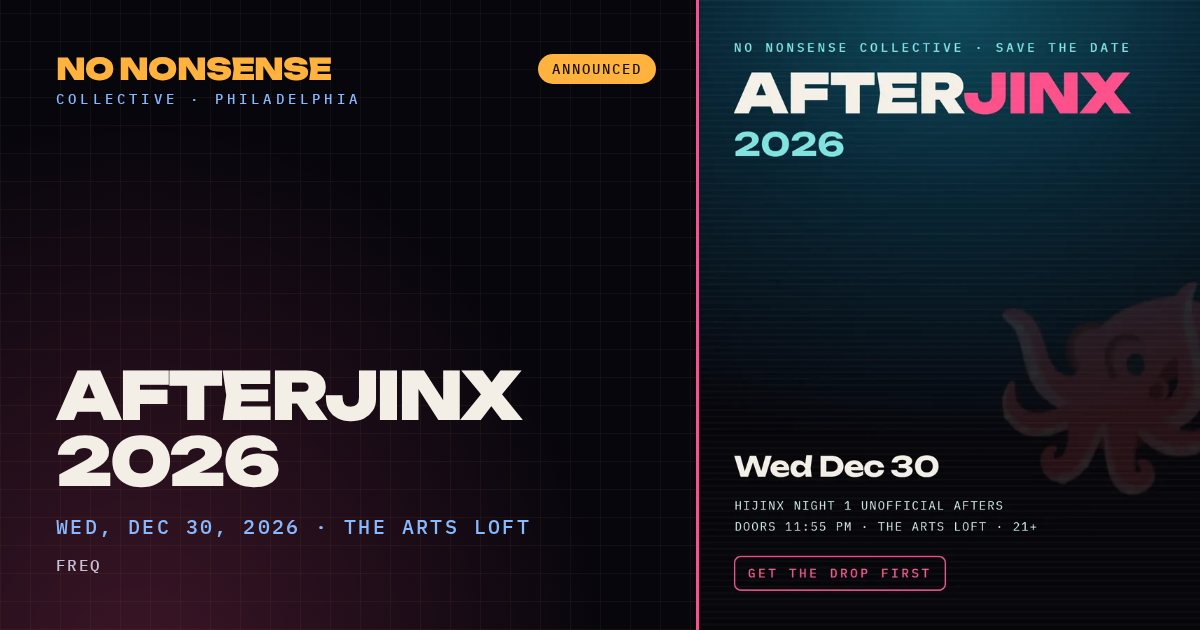
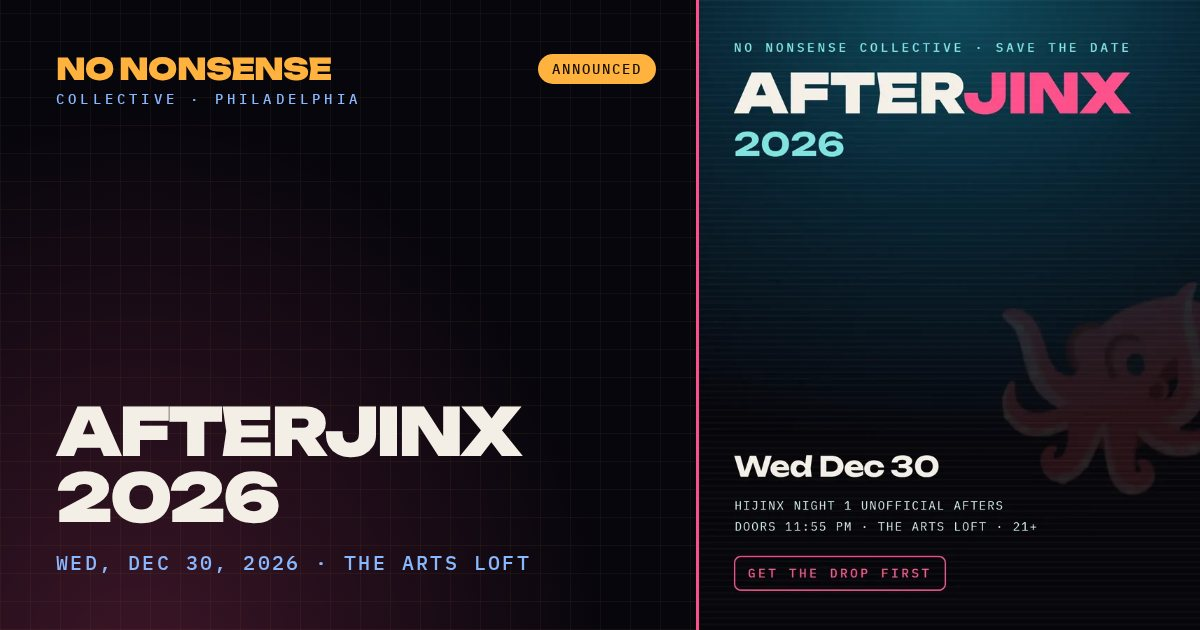
AfterJinx 2026: remove FREQ, lineup TBA
FREQ was offered, not confirmed. Drops FREQ and the 3:30 set time from the
event record, page, home data and share image; the lineup reads Lineup TBA.

diff --git a/index.html b/index.html
@@ -1384,8 +1384,8 @@ button:not(:disabled):active,.btn:active,a.btn:active,[role="button"]:active,.ca
                 <p class="badge badge-afterparty">Afterparty</p><span class="ev-state ev-state--announced">Announced</span>
                 <h3>AfterJinx 2026</h3>
                 <p class="event-meta"><time datetime="2026-12-30">Wed, Dec 30, 2026</time> · The Arts Loft</p>
-                <p>HiJinx Night 1 unofficial afters. Doors 11:55 PM, music until 6 AM. FREQ.</p>
-                <ul class="door-chips"><li>21+</li><li class="ev-has">Set times</li></ul>
+                <p>HiJinx Night 1 unofficial afters. Doors 11:55 PM, music until 6 AM.</p>
+                <ul class="door-chips"><li>21+</li></ul>
                 <p class="ev-note"><b>Announced, not on sale.</b> The drop list gets the venue and lineup, then the on-sale link, then the address at 6 PM on show day.</p><p class="ev-access">Access: ask us about stairs, seating or step-free entry before the show. <a href="#contact" data-go="contact">Contact us</a>.</p>
                 <div class="card-links"><button type="button" class="text-link ev-tix" data-open-news>Get the drop</button><a class="text-link" href="events/afterjinx-2026/afterjinx-2026.ics" download data-umami-event="add-to-calendar" data-umami-event-event="afterjinx-2026">Add to calendar</a><button type="button" class="text-link" data-event-open="afterjinx-2026">Lineup + details</button><a class="text-link" href="events/afterjinx-2026/">Event page</a></div>
               </div>
@@ -2096,7 +2096,7 @@ button:not(:disabled):active,.btn:active,a.btn:active,[role="button"]:active,.ca
     <p class="vs-note">Played from YouTube with captions switched on when the video has them. <a id="vs-link" href="#" target="_blank" rel="noopener noreferrer">Open on YouTube</a></p>
   </div>
 </dialog>
-<!-- nn:data --><script type="application/json" id="nn-data">{"events":[{"slug":"afterjinx-2026","title":"AfterJinx 2026","category":"afterparty","status":"announced","start":"2026-12-30T23:55:00-05:00","end":"2026-12-31T06:00:00-05:00","dateLabel":"Wed, Dec 30, 2026","summary":"HiJinx Night 1 unofficial afters. Doors 11:55 PM, music until 6 AM.","presenters":[],"venue":{"name":"The Arts Loft","area":"Callowhill","public":true},"flyer":"afterjinx-2026","door":{"age":"21+"},"nights":[{"label":"HiJinx Night 1 · Wed Dec 30","sets":[["3:30","FREQ"]]}],"lineup":["FREQ"],"audio":[],"videos":[]},{"slug":"legend-of-delta-2026","title":"The Legend of Delta: A Link to the Rave","category":"club","status":"on-sale","start":"2026-11-13T22:00:00-05:00","end":"2026-11-14T03:00:00-05:00","dateLabel":"Fri, Nov 13, 2026","summary":"ZeldaRave VS DeltaRave. DeltaRave returns, with a twist: worlds unite for the first ever Zelda x Deltarune rave. Collision of the dark worlds: a multi-genre video game EDM night. All cosplay welcome; Undertale, Deltarune and Zelda cosplay encouraged. Limited free RSVP, then from $10; $20 day of. See you soon, travelers.","presenters":[],"venue":{"name":"2437 S 24th St","area":"South Philly","public":true},"flyer":"legend-of-delta-2026","ticketUrl":"https://posh.vip/e/the-legend-of-delta-a-link-to-the-rave","door":{"age":"18+"},"lineup":[],"lineupNote":"Lineup TBA. Multi-genre video game EDM.","audio":[],"videos":[]},{"slug":"afterbreak-2026","title":"AfterBreak 2026","category":"afterparty","status":"announced","start":"2026-09-12T00:00:00-04:00","end":"2026-09-13T06:00:00-04:00","dateLabel":"Sep 11 + 12, 2026","summary":"Unofficial Breakaway Philly afterparties, midnight to sunrise.","presenters":[],"venue":{"name":null,"area":"Secret Philly location","public":false},"flyer":"afterbreak-2026","extraFlyers":[{"label":"Night 1 flyer","file":"afterbreak-2026-night-1"}],"door":{"age":"18+ with valid ID · 21+ to drink","reentry":"Yes, back through the security checkpoint","bring":"Two sealed waters or snacks are fine. No weapons, outside drinks, or N2O."},"notice":"Night 2 was cancelled for weather. Ticket holders were refunded.","nights":[{"label":"Night 1 · Fri Sep 11","area":"South Philly waterfront","sets":[["12:00","Double Vision"],["12:45","Venomixx"],["1:30","DJ Tweak"],["2:30","Le Voile"],["3:30","Face My Flow feat. Stehreo"],["4:30","DusteeHD"],["5:30","Acidic Dreams b2b Tethra64"]]},{"label":"Night 2 · Sat Sep 12","status":"cancelled","note":"Cancelled for weather · refunded"}],"lineup":["Face My Flow feat. Stehreo","Acidic Dreams b2b Tethra64","Double Vision","DJ Tweak","DusteeHD","Le Voile","Venomixx"],"production":"No Nonsense stage lighting and laser system, plus projection mapping with live VJ from Double Vision. PA: 2× EV ZLX-15BT, EV S181 sub, QSC GX7 amp.","audio":[],"videos":[]},{"slug":"endpoint-connections-2","title":"Endpoint Connections 2.0","category":"club","status":"announced","start":"2026-05-15T23:45:00-04:00","end":"2026-05-16T05:00:00-04:00","dateLabel":"Fri, May 15, 2026","summary":"Advanced after-hours with Unpopular Opinion. 11:45 PM to 5 AM.","presenters":["Unpopular Opinion"],"venue":{"name":"The Arts Loft","area":"Callowhill","public":true},"flyer":"endpoint-connections-2","door":{"age":"21+"},"lineup":["Dragon Drop","ILLIXIR","Quackz","Orem","Zektr"],"audio":[],"videos":[]},{"slug":"park-rave-005-2026","title":"Park Rave 005: Bicycle Day Banger Part Two","category":"outdoor","status":"announced","start":"2026-04-19T12:00:00-04:00","end":"2026-04-19T20:00:00-04:00","dateLabel":"Sun, Apr 19, 2026","summary":"A free two-stage, multi-genre park rave with Massive. Open decks and vendors. Noon until dark.","presenters":["Massive"],"venue":{"name":null,"area":"Philly park","public":false},"flyer":"park-rave-005-2026","door":{"age":"Free entry"},"lineup":[],"lineupNote":"Two stages and open decks. The lineup was announced after the flyer.","audio":[],"videos":[]},{"slug":"endpoint-connections-1","title":"Endpoint Connections 1.0","category":"club","status":"announced","start":"2026-04-18T23:30:00-04:00","end":"2026-04-19T05:00:00-04:00","dateLabel":"Apr 18, 2026","summary":"The first Endpoint, with Unpopular Opinion.","presenters":["Unpopular Opinion"],"venue":{"name":"The Arts Loft","area":"Callowhill","public":true},"flyer":"endpoint-connections-1","door":{"age":"21+"},"lineup":["Chehz","G-Nick","illGmusic","Orem","Spin Doctaz","Tunk"],"audio":[],"videos":[]},{"slug":"aftertronics-2026","title":"Aftertronics","category":"afterparty","status":"announced","start":"2026-03-06T23:45:00-05:00","end":"2026-03-08T05:15:00-05:00","dateLabel":"Mar 6 + 7, 2026","summary":"Two nights of unofficial afters. 11:45 PM to 5:15 AM.","presenters":[],"venue":{"name":null,"area":"Near The Met","public":false},"flyer":"aftertronics-2026","door":{"age":"21+ with ID"},"lineup":["The Riddim Ranch","Figmvnt","Acidic Dreams b2b Dragon Drop","Bluhtii","illGmusic","ILLIXIR","Moppy","Opifex","Orem","Quackz"],"audio":[],"videos":[{"youtube":"CTwXR94xCoQ","title":"Figmvnt visuals, part 1"},{"youtube":"ofaY-b8rMy4","title":"Figmvnt visuals, part 2"},{"youtube":"dXDAtTCNQUw","title":"Figmvnt visuals, part 3"},{"youtube":"Amp6U_WoPZ8","title":"Visuals: Orem"},{"youtube":"iB39ObrtEZE","title":"Visuals: Quackz"}]},{"slug":"justin-hawkes-2026","title":"Justin Hawkes","category":"club","status":"announced","start":"2026-01-17T21:00:00-05:00","end":"2026-01-18T02:00:00-05:00","dateLabel":"Sat, Jan 17, 2026","summary":"Drum and bass with Hostile City and XTRA DnB. 9 PM to 2 AM.","presenters":["Hostile City","XTRA DnB"],"venue":{"name":null,"area":"Warehouse near The Met","public":false},"flyer":"justin-hawkes-2026","door":{"age":"21+"},"lineup":["Justin Hawkes","GhostInRealLife","boxplot","Neuromancy","Skuzz"],"audio":[],"videos":[]},{"slug":"afterjinx-2025","title":"AfterJinx","category":"afterparty","status":"announced","start":"2025-12-28T00:00:00-05:00","end":"2025-12-29T08:00:00-05:00","dateLabel":"Dec 28 + 29, 2025","summary":"Two nights of unofficial HIJINX Festival afterparties, midnight to 8 AM.","presenters":[],"venue":{"name":"905 N Broad St","area":"North Broad","public":true},"flyer":"afterjinx-2025","extraFlyers":[{"label":"Set times","file":"afterjinx-2025-set-times"},{"label":"Night 2 flyer","file":"afterjinx-2025-night-2"}],"door":{"age":"21+"},"nights":[{"label":"Night 1 · Dec 28","sets":[["12:00","Doors"],["12:15","Open Decks"],["1:00","Space Heaters"],["1:45","Dragon Drop"],["2:30","Fresh Bvked"],["3:30","JamL"],["4:30","Trowl"],["5:30","illGmusic b2b Zacharia"],["6:30","G-Nick"],["7:15","Acidic Dreams b2b Tethra64"],["8:00","Close"]]},{"label":"Night 2 · Dec 29","sets":[["12:00","Doors"],["12:15","Open Decks"],["1:00","SAP"],["1:45","Bishop. b2b Bluhtii"],["2:45","Dr. Funkle"],["3:45","Defunk (extended set)"],["5:15","TheBusiness. b2b Tygris"],["6:15","Neuromancy"],["7:15","Spin Doctaz"],["8:00","Close"]]}],"lineup":["Defunk","Fresh Bvked","JamL","Dr. Funkle","Neuromancy","TheBusiness.","Trowl","Dragon Drop","G-Nick","illGmusic","Acidic Dreams","Tethra64","SAP","Bishop.","Bluhtii","Space Heaters","Spin Doctaz","Tygris","Zacharia"],"audio":[{"title":"AfterJinx Set 12/29/2025","artist":"SAP","url":"https://soundcloud.com/erosynmusic/sap-afterjinx-set-12292025"}],"videos":[]},{"slug":"city-rave-round-2-2025","title":"City Rave: Round 2","category":"afterparty","status":"announced","start":"2025-11-15T23:45:00-05:00","end":"2025-11-16T06:45:00-05:00","dateLabel":"Sat, Nov 15, 2025","summary":"A South Park-themed after party. 11:45 PM to 6:45 AM.","presenters":[],"venue":{"name":"905 N Broad St","area":"North Broad","public":true},"flyer":"city-rave-round-2-2025","door":{"age":"21+"},"lineup":["Mystery headliner","Chehz","Chow","Dragon Drop","Quackz","DJ Tweak"],"audio":[],"videos":[]},{"slug":"sub-kulture-2025","title":"Sub Kulture Festival Takeover","category":"outdoor","status":"announced","start":"2025-09-26","end":null,"dateLabel":"Fri, Sep 26, 2025","summary":"No Nonsense took over a stage at Kulture Cru’s Sub Kulture Festival.","presenters":["Kulture Cru"],"venue":{"name":"The Feral Dungeon stage","area":"Sub Kulture Festival","public":true},"flyer":"sub-kulture-2025","door":{"age":"18+"},"lineup":["Neuromancy","illGmusic","Spin Doctaz"],"audio":[],"videos":[]},{"slug":"afterbreak-2025","title":"AfterBreak 2025","category":"afterparty","status":"announced","start":"2025-09-13T00:00:00-04:00","end":null,"dateLabel":"Sep 12 + 13, 2025","summary":"Unofficial Breakaway after parties, midnight to sunrise.","presenters":[],"venue":{"name":null,"area":"Secret Philly location","public":false},"flyer":"afterbreak-2025","door":{},"lineup":["Mystery headliner","Trowl","Alex Makin","G-Nick","illGmusic","ILLIXIR","Orem","Quackz","Spin Doctaz"],"lineupNote":"Plus more names on the flyer.","audio":[],"videos":[]},{"slug":"kandi-island-2025","title":"Kandi Island","category":"outdoor","status":"announced","start":"2025-08-02T21:00:00-04:00","end":null,"dateLabel":"Sat, Aug 2, 2025","summary":"With Chaos & Kandi. 9 PM until late.","presenters":["Chaos & Kandi"],"venue":{"name":null,"area":"Secret outdoor location","public":false},"flyer":"kandi-island-2025","door":{},"lineup":["Mighty Mike Saga","Terrence Powers","Acidic Dreams","Dragon Drop","G-Nick"],"lineupNote":"Plus more names on the flyer.","audio":[],"videos":[]},{"slug":"rooftop-nonsense-2025","title":"Rooftop Nonsense","category":"outdoor","status":"announced","start":"2025-06-07","end":null,"dateLabel":"Sat, Jun 7, 2025","summary":"One year of No Nonsense. Free with RSVP.","presenters":[],"venue":{"name":null,"area":"Secret Fishtown rooftop","public":false},"flyer":"rooftop-nonsense-2025","door":{"age":"Free with RSVP"},"lineup":["Viberium","Face My Flow b2b ILLIXIR","Neurotoxin"],"lineupNote":"Neurotoxin (Acidic Dreams b2b ILLIXIR) made its debut here.","audio":[],"videos":[{"youtube":"v5LKsgSmvn4","title":"Live stream, part 1"},{"youtube":"T9SorIa2Yi4","title":"Live stream, part 2"}]}],"recaps":[{"youtube":"eHZVeRInlFE","title":"AfterJinx 2024 recap","note":"HiJinx Festival 2024 afters"}],"artists":[{"slug":"illixir","name":"ILLIXIR","role":"member","initials":"IX","bio":"Plays solo and as Neuromancy, a GRiZ neurofunk tribute with Acidic Dreams.","links":[{"label":"SoundCloud","url":"https://soundcloud.com/illixirbass"},{"label":"Welcome Home (ILLIXIR x Acidic Dreams)","url":"https://open.spotify.com/track/2EO3bNmyE6GKPqWOd8AseL"}],"shows":["endpoint-connections-2","aftertronics-2026","justin-hawkes-2026","afterjinx-2025","sub-kulture-2025","afterbreak-2025","rooftop-nonsense-2025"]},{"slug":"acidic-dreams","name":"Acidic Dreams","role":"member","initials":"AD","bio":"Plays solo, in b2b sets, and as Neuromancy with ILLIXIR.","links":[{"label":"SoundCloud","url":"https://soundcloud.com/acidicdreams"},{"label":"Welcome Home (ILLIXIR x Acidic Dreams)","url":"https://open.spotify.com/track/2EO3bNmyE6GKPqWOd8AseL"}],"shows":["afterbreak-2026","aftertronics-2026","justin-hawkes-2026","afterjinx-2025","sub-kulture-2025","kandi-island-2025","rooftop-nonsense-2025"]},{"slug":"double-vision","name":"Double Vision","role":"member","initials":"DV","aliases":["DoubleVision"],"bio":"Runs projection mapping and live VJ for No Nonsense rooms, and opened AfterBreak 2026 Night 1 on the decks.","links":[],"shows":["afterbreak-2026"]},{"slug":"neuromancy","name":"Neuromancy","role":"project","bio":"ILLIXIR and Acidic Dreams’ GRiZ neurofunk tribute.","members":["illixir","acidic-dreams"],"links":[],"shows":["justin-hawkes-2026","afterjinx-2025","sub-kulture-2025"]},{"slug":"neurotoxin","name":"Neurotoxin","role":"project","bio":"Acidic Dreams b2b ILLIXIR. Debuted at Rooftop Nonsense.","members":["acidic-dreams","illixir"],"links":[],"shows":["rooftop-nonsense-2025"]},{"slug":"erosyn","name":"Erosyn (fka SAP)","role":"guest","aliases":["SAP","Erosyn"],"links":[{"label":"standardacidprocedure.com","url":"https://standardacidprocedure.com"}],"shows":["afterjinx-2025"]},{"slug":"dj-tweak","name":"DJ Tweak","role":"guest","aliases":["Tweak"],"shows":["afterbreak-2026","city-rave-round-2-2025"]},{"slug":"g-nick","name":"G-Nick","role":"guest","aliases":["G-NICK"],"shows":["endpoint-connections-1","afterjinx-2025","afterbreak-2025","kandi-island-2025"]},{"slug":"defunk","name":"Defunk","role":"guest","shows":["afterjinx-2025"]},{"slug":"fresh-bvked","name":"Fresh Bvked","role":"guest","shows":["afterjinx-2025"]},{"slug":"mighty-mike-saga","name":"Mighty Mike Saga","role":"guest","shows":["kandi-island-2025"]},{"slug":"terrence-powers","name":"Terrence Powers","role":"guest","shows":["kandi-island-2025"]},{"slug":"justin-hawkes","name":"Justin Hawkes","role":"guest","shows":["justin-hawkes-2026"]},{"slug":"figmvnt","name":"Figmvnt","role":"guest","shows":["aftertronics-2026"]},{"slug":"the-riddim-ranch","name":"The Riddim Ranch","role":"guest","shows":["aftertronics-2026"]},{"slug":"viberium","name":"Viberium","role":"guest","shows":["rooftop-nonsense-2025"]},{"slug":"face-my-flow","name":"Face My Flow","role":"guest","shows":["afterbreak-2026","rooftop-nonsense-2025"]},{"slug":"stehreo","name":"Stehreo","role":"guest","shows":["afterbreak-2026"]},{"slug":"trowl","name":"Trowl","role":"guest","shows":["afterjinx-2025","afterbreak-2025"]},{"slug":"jaml","name":"JamL","role":"guest","shows":["afterjinx-2025"]},{"slug":"dr-funkle","name":"Dr. Funkle","role":"guest","shows":["afterjinx-2025"]},{"slug":"thebusiness","name":"TheBusiness.","role":"guest","shows":["afterjinx-2025"]},{"slug":"dragon-drop","name":"Dragon Drop","role":"guest","shows":["endpoint-connections-2","aftertronics-2026","afterjinx-2025","city-rave-round-2-2025","kandi-island-2025"]},{"slug":"illgmusic","name":"illGmusic","role":"guest","shows":["endpoint-connections-1","aftertronics-2026","afterjinx-2025","sub-kulture-2025","afterbreak-2025"]},{"slug":"orem","name":"Orem","role":"guest","shows":["endpoint-connections-2","endpoint-connections-1","aftertronics-2026","afterbreak-2025"]},{"slug":"quackz","name":"Quackz","role":"guest","shows":["endpoint-connections-2","aftertronics-2026","city-rave-round-2-2025","afterbreak-2025"]},{"slug":"spin-doctaz","name":"Spin Doctaz","role":"guest","shows":["endpoint-connections-1","afterjinx-2025","sub-kulture-2025","afterbreak-2025"]},{"slug":"chehz","name":"Chehz","role":"guest","shows":["endpoint-connections-1","city-rave-round-2-2025"]},{"slug":"chow","name":"Chow","role":"guest","shows":["city-rave-round-2-2025"]},{"slug":"tethra64","name":"Tethra64","role":"guest","shows":["afterbreak-2026","afterjinx-2025"]},{"slug":"bluhtii","name":"Bluhtii","role":"guest","shows":["aftertronics-2026","afterjinx-2025"]},{"slug":"alex-makin","name":"Alex Makin","role":"guest","shows":["afterbreak-2025"]},{"slug":"zektr","name":"Zektr","role":"guest","shows":["endpoint-connections-2"]},{"slug":"tunk","name":"Tunk","role":"guest","shows":["endpoint-connections-1"]},{"slug":"ghostinreallife","name":"GhostInRealLife","role":"guest","shows":["justin-hawkes-2026"]},{"slug":"boxplot","name":"boxplot","role":"guest","shows":["justin-hawkes-2026"]},{"slug":"skuzz","name":"Skuzz","role":"guest","shows":["justin-hawkes-2026"]},{"slug":"moppy","name":"Moppy","role":"guest","shows":["aftertronics-2026"]},{"slug":"opifex","name":"Opifex","role":"guest","shows":["aftertronics-2026"]},{"slug":"space-heaters","name":"Space Heaters","role":"guest","shows":["afterjinx-2025"]},{"slug":"bishop","name":"Bishop.","role":"guest","shows":["afterjinx-2025"]},{"slug":"tygris","name":"Tygris","role":"guest","shows":["afterjinx-2025"]},{"slug":"zacharia","name":"Zacharia","role":"guest","shows":["afterjinx-2025"]},{"slug":"dusteehd","name":"DusteeHD","role":"guest","shows":["afterbreak-2026"]},{"slug":"le-voile","name":"Le Voile","role":"guest","shows":["afterbreak-2026"]},{"slug":"venomixx","name":"Venomixx","role":"guest","shows":["afterbreak-2026"]}],"rentals":[{"name":"DJ booth package","zone":"audio","gear":[{"qty":2,"model":"Pioneer CDJ-3000","tags":["pair"],"note":"Extra decks for an added fee"},{"qty":1,"model":"Pioneer DJM-A9 mixer"},{"qty":1,"model":"Pioneer XDJ-XZ or Denon Prime 4 (standalone, instead of CDJs)"},{"qty":1,"model":"Shure SM-58 mic"}],"circuits":1,"circuitLabel":"booth","video":false,"provides":"","addon":null,"price":""},{"name":"Compact PA package","zone":"audio","gear":[{"qty":2,"model":"EV ZLX-15BT 15\" 1000W powered","tags":["pair"]},{"qty":4,"model":"EV S181 18\" 500W sub","tags":["amp"],"note":"Up to 4, scaled to the room"},{"qty":2,"model":"QSC GX7 2-ch 1000W amp with crossover","note":"One amp drives two subs"},{"qty":2,"model":"Phonic SEM 715 15\" booth monitor","tags":["pair","amp"]}],"circuits":2,"circuitLabel":"PA","video":false,"provides":"","addon":null,"price":""},{"name":"Dance-floor lighting package","zone":"lighting","gear":[{"qty":2,"model":"Epsilon Minibeam 600 moving head","tags":["pair"]},{"qty":3,"model":"ADJ Vertigo Tri LED"},{"qty":1,"model":"Chauvet J-Six"},{"qty":1,"model":"MBT moving disco ball"}],"circuits":1,"circuitLabel":"lighting","video":false,"provides":"","addon":{"name":"Laser add-on (LaserCube 1.2W + tech)","label":"Add laser","gear":"X-Laser LaserCube 1.2W","circuits":0},"price":""},{"name":"Atmosphere + accent package","zone":"lighting","gear":[{"qty":1,"model":"Hurricane Haze 1DX"},{"qty":null,"model":"Music-responsive uplights","note":"Count to the room"}],"circuits":1,"circuitLabel":"haze + uplights","video":false,"provides":"","addon":null,"price":""},{"name":"Projection / display package","zone":"video","gear":[{"qty":1,"model":"Live VJ + projection mapping (Double Vision)","tags":["tech"]},{"qty":1,"model":"Projector or display to fit the room","tags":["sourced"]},{"qty":1,"model":"Scaler, cable, and spares","tags":["sourced"]}],"circuits":1,"circuitLabel":"video","video":true,"provides":"","addon":null,"price":""},{"name":"Camera + IMAG starter package","zone":"video","gear":[{"qty":null,"model":"Camera(s), switcher, and program display","tags":["sourced"],"note":"Count set by the signal path below"},{"qty":1,"model":"Operator","tags":["tech"],"note":"Optional for one locked-off camera"}],"circuits":1,"circuitLabel":"camera","video":true,"provides":"","addon":null,"price":""},{"name":"Event utility package","zone":"utility","gear":[{"qty":1,"model":"Generac 3300W generator","note":"About one 20A circuit of load"},{"qty":null,"model":"12\" aluminum box truss"},{"qty":null,"model":"Distro, extension, and cable management"}],"circuits":0,"circuitLabel":"","video":false,"provides":"3300W generator","addon":null,"price":""},{"name":"Room support package","zone":"utility","gear":[{"qty":1,"model":"NNC inflatable stage"},{"qty":null,"model":"Load-in, run-of-show, and strike crew","tags":["tech"]}],"circuits":0,"circuitLabel":"","video":false,"provides":"","addon":null,"price":""}]}</script><!-- /nn:data -->
+<!-- nn:data --><script type="application/json" id="nn-data">{"events":[{"slug":"afterjinx-2026","title":"AfterJinx 2026","category":"afterparty","status":"announced","start":"2026-12-30T23:55:00-05:00","end":"2026-12-31T06:00:00-05:00","dateLabel":"Wed, Dec 30, 2026","summary":"HiJinx Night 1 unofficial afters. Doors 11:55 PM, music until 6 AM.","presenters":[],"venue":{"name":"The Arts Loft","area":"Callowhill","public":true},"flyer":"afterjinx-2026","door":{"age":"21+"},"lineup":[],"lineupNote":"Lineup TBA.","audio":[],"videos":[]},{"slug":"legend-of-delta-2026","title":"The Legend of Delta: A Link to the Rave","category":"club","status":"on-sale","start":"2026-11-13T22:00:00-05:00","end":"2026-11-14T03:00:00-05:00","dateLabel":"Fri, Nov 13, 2026","summary":"ZeldaRave VS DeltaRave. DeltaRave returns, with a twist: worlds unite for the first ever Zelda x Deltarune rave. Collision of the dark worlds: a multi-genre video game EDM night. All cosplay welcome; Undertale, Deltarune and Zelda cosplay encouraged. Limited free RSVP, then from $10; $20 day of. See you soon, travelers.","presenters":[],"venue":{"name":"2437 S 24th St","area":"South Philly","public":true},"flyer":"legend-of-delta-2026","ticketUrl":"https://posh.vip/e/the-legend-of-delta-a-link-to-the-rave","door":{"age":"18+"},"lineup":[],"lineupNote":"Lineup TBA. Multi-genre video game EDM.","audio":[],"videos":[]},{"slug":"afterbreak-2026","title":"AfterBreak 2026","category":"afterparty","status":"announced","start":"2026-09-12T00:00:00-04:00","end":"2026-09-13T06:00:00-04:00","dateLabel":"Sep 11 + 12, 2026","summary":"Unofficial Breakaway Philly afterparties, midnight to sunrise.","presenters":[],"venue":{"name":null,"area":"Secret Philly location","public":false},"flyer":"afterbreak-2026","extraFlyers":[{"label":"Night 1 flyer","file":"afterbreak-2026-night-1"}],"door":{"age":"18+ with valid ID · 21+ to drink","reentry":"Yes, back through the security checkpoint","bring":"Two sealed waters or snacks are fine. No weapons, outside drinks, or N2O."},"notice":"Night 2 was cancelled for weather. Ticket holders were refunded.","nights":[{"label":"Night 1 · Fri Sep 11","area":"South Philly waterfront","sets":[["12:00","Double Vision"],["12:45","Venomixx"],["1:30","DJ Tweak"],["2:30","Le Voile"],["3:30","Face My Flow feat. Stehreo"],["4:30","DusteeHD"],["5:30","Acidic Dreams b2b Tethra64"]]},{"label":"Night 2 · Sat Sep 12","status":"cancelled","note":"Cancelled for weather · refunded"}],"lineup":["Face My Flow feat. Stehreo","Acidic Dreams b2b Tethra64","Double Vision","DJ Tweak","DusteeHD","Le Voile","Venomixx"],"production":"No Nonsense stage lighting and laser system, plus projection mapping with live VJ from Double Vision. PA: 2× EV ZLX-15BT, EV S181 sub, QSC GX7 amp.","audio":[],"videos":[]},{"slug":"endpoint-connections-2","title":"Endpoint Connections 2.0","category":"club","status":"announced","start":"2026-05-15T23:45:00-04:00","end":"2026-05-16T05:00:00-04:00","dateLabel":"Fri, May 15, 2026","summary":"Advanced after-hours with Unpopular Opinion. 11:45 PM to 5 AM.","presenters":["Unpopular Opinion"],"venue":{"name":"The Arts Loft","area":"Callowhill","public":true},"flyer":"endpoint-connections-2","door":{"age":"21+"},"lineup":["Dragon Drop","ILLIXIR","Quackz","Orem","Zektr"],"audio":[],"videos":[]},{"slug":"park-rave-005-2026","title":"Park Rave 005: Bicycle Day Banger Part Two","category":"outdoor","status":"announced","start":"2026-04-19T12:00:00-04:00","end":"2026-04-19T20:00:00-04:00","dateLabel":"Sun, Apr 19, 2026","summary":"A free two-stage, multi-genre park rave with Massive. Open decks and vendors. Noon until dark.","presenters":["Massive"],"venue":{"name":null,"area":"Philly park","public":false},"flyer":"park-rave-005-2026","door":{"age":"Free entry"},"lineup":[],"lineupNote":"Two stages and open decks. The lineup was announced after the flyer.","audio":[],"videos":[]},{"slug":"endpoint-connections-1","title":"Endpoint Connections 1.0","category":"club","status":"announced","start":"2026-04-18T23:30:00-04:00","end":"2026-04-19T05:00:00-04:00","dateLabel":"Apr 18, 2026","summary":"The first Endpoint, with Unpopular Opinion.","presenters":["Unpopular Opinion"],"venue":{"name":"The Arts Loft","area":"Callowhill","public":true},"flyer":"endpoint-connections-1","door":{"age":"21+"},"lineup":["Chehz","G-Nick","illGmusic","Orem","Spin Doctaz","Tunk"],"audio":[],"videos":[]},{"slug":"aftertronics-2026","title":"Aftertronics","category":"afterparty","status":"announced","start":"2026-03-06T23:45:00-05:00","end":"2026-03-08T05:15:00-05:00","dateLabel":"Mar 6 + 7, 2026","summary":"Two nights of unofficial afters. 11:45 PM to 5:15 AM.","presenters":[],"venue":{"name":null,"area":"Near The Met","public":false},"flyer":"aftertronics-2026","door":{"age":"21+ with ID"},"lineup":["The Riddim Ranch","Figmvnt","Acidic Dreams b2b Dragon Drop","Bluhtii","illGmusic","ILLIXIR","Moppy","Opifex","Orem","Quackz"],"audio":[],"videos":[{"youtube":"CTwXR94xCoQ","title":"Figmvnt visuals, part 1"},{"youtube":"ofaY-b8rMy4","title":"Figmvnt visuals, part 2"},{"youtube":"dXDAtTCNQUw","title":"Figmvnt visuals, part 3"},{"youtube":"Amp6U_WoPZ8","title":"Visuals: Orem"},{"youtube":"iB39ObrtEZE","title":"Visuals: Quackz"}]},{"slug":"justin-hawkes-2026","title":"Justin Hawkes","category":"club","status":"announced","start":"2026-01-17T21:00:00-05:00","end":"2026-01-18T02:00:00-05:00","dateLabel":"Sat, Jan 17, 2026","summary":"Drum and bass with Hostile City and XTRA DnB. 9 PM to 2 AM.","presenters":["Hostile City","XTRA DnB"],"venue":{"name":null,"area":"Warehouse near The Met","public":false},"flyer":"justin-hawkes-2026","door":{"age":"21+"},"lineup":["Justin Hawkes","GhostInRealLife","boxplot","Neuromancy","Skuzz"],"audio":[],"videos":[]},{"slug":"afterjinx-2025","title":"AfterJinx","category":"afterparty","status":"announced","start":"2025-12-28T00:00:00-05:00","end":"2025-12-29T08:00:00-05:00","dateLabel":"Dec 28 + 29, 2025","summary":"Two nights of unofficial HIJINX Festival afterparties, midnight to 8 AM.","presenters":[],"venue":{"name":"905 N Broad St","area":"North Broad","public":true},"flyer":"afterjinx-2025","extraFlyers":[{"label":"Set times","file":"afterjinx-2025-set-times"},{"label":"Night 2 flyer","file":"afterjinx-2025-night-2"}],"door":{"age":"21+"},"nights":[{"label":"Night 1 · Dec 28","sets":[["12:00","Doors"],["12:15","Open Decks"],["1:00","Space Heaters"],["1:45","Dragon Drop"],["2:30","Fresh Bvked"],["3:30","JamL"],["4:30","Trowl"],["5:30","illGmusic b2b Zacharia"],["6:30","G-Nick"],["7:15","Acidic Dreams b2b Tethra64"],["8:00","Close"]]},{"label":"Night 2 · Dec 29","sets":[["12:00","Doors"],["12:15","Open Decks"],["1:00","SAP"],["1:45","Bishop. b2b Bluhtii"],["2:45","Dr. Funkle"],["3:45","Defunk (extended set)"],["5:15","TheBusiness. b2b Tygris"],["6:15","Neuromancy"],["7:15","Spin Doctaz"],["8:00","Close"]]}],"lineup":["Defunk","Fresh Bvked","JamL","Dr. Funkle","Neuromancy","TheBusiness.","Trowl","Dragon Drop","G-Nick","illGmusic","Acidic Dreams","Tethra64","SAP","Bishop.","Bluhtii","Space Heaters","Spin Doctaz","Tygris","Zacharia"],"audio":[{"title":"AfterJinx Set 12/29/2025","artist":"SAP","url":"https://soundcloud.com/erosynmusic/sap-afterjinx-set-12292025"}],"videos":[]},{"slug":"city-rave-round-2-2025","title":"City Rave: Round 2","category":"afterparty","status":"announced","start":"2025-11-15T23:45:00-05:00","end":"2025-11-16T06:45:00-05:00","dateLabel":"Sat, Nov 15, 2025","summary":"A South Park-themed after party. 11:45 PM to 6:45 AM.","presenters":[],"venue":{"name":"905 N Broad St","area":"North Broad","public":true},"flyer":"city-rave-round-2-2025","door":{"age":"21+"},"lineup":["Mystery headliner","Chehz","Chow","Dragon Drop","Quackz","DJ Tweak"],"audio":[],"videos":[]},{"slug":"sub-kulture-2025","title":"Sub Kulture Festival Takeover","category":"outdoor","status":"announced","start":"2025-09-26","end":null,"dateLabel":"Fri, Sep 26, 2025","summary":"No Nonsense took over a stage at Kulture Cru’s Sub Kulture Festival.","presenters":["Kulture Cru"],"venue":{"name":"The Feral Dungeon stage","area":"Sub Kulture Festival","public":true},"flyer":"sub-kulture-2025","door":{"age":"18+"},"lineup":["Neuromancy","illGmusic","Spin Doctaz"],"audio":[],"videos":[]},{"slug":"afterbreak-2025","title":"AfterBreak 2025","category":"afterparty","status":"announced","start":"2025-09-13T00:00:00-04:00","end":null,"dateLabel":"Sep 12 + 13, 2025","summary":"Unofficial Breakaway after parties, midnight to sunrise.","presenters":[],"venue":{"name":null,"area":"Secret Philly location","public":false},"flyer":"afterbreak-2025","door":{},"lineup":["Mystery headliner","Trowl","Alex Makin","G-Nick","illGmusic","ILLIXIR","Orem","Quackz","Spin Doctaz"],"lineupNote":"Plus more names on the flyer.","audio":[],"videos":[]},{"slug":"kandi-island-2025","title":"Kandi Island","category":"outdoor","status":"announced","start":"2025-08-02T21:00:00-04:00","end":null,"dateLabel":"Sat, Aug 2, 2025","summary":"With Chaos & Kandi. 9 PM until late.","presenters":["Chaos & Kandi"],"venue":{"name":null,"area":"Secret outdoor location","public":false},"flyer":"kandi-island-2025","door":{},"lineup":["Mighty Mike Saga","Terrence Powers","Acidic Dreams","Dragon Drop","G-Nick"],"lineupNote":"Plus more names on the flyer.","audio":[],"videos":[]},{"slug":"rooftop-nonsense-2025","title":"Rooftop Nonsense","category":"outdoor","status":"announced","start":"2025-06-07","end":null,"dateLabel":"Sat, Jun 7, 2025","summary":"One year of No Nonsense. Free with RSVP.","presenters":[],"venue":{"name":null,"area":"Secret Fishtown rooftop","public":false},"flyer":"rooftop-nonsense-2025","door":{"age":"Free with RSVP"},"lineup":["Viberium","Face My Flow b2b ILLIXIR","Neurotoxin"],"lineupNote":"Neurotoxin (Acidic Dreams b2b ILLIXIR) made its debut here.","audio":[],"videos":[{"youtube":"v5LKsgSmvn4","title":"Live stream, part 1"},{"youtube":"T9SorIa2Yi4","title":"Live stream, part 2"}]}],"recaps":[{"youtube":"eHZVeRInlFE","title":"AfterJinx 2024 recap","note":"HiJinx Festival 2024 afters"}],"artists":[{"slug":"illixir","name":"ILLIXIR","role":"member","initials":"IX","bio":"Plays solo and as Neuromancy, a GRiZ neurofunk tribute with Acidic Dreams.","links":[{"label":"SoundCloud","url":"https://soundcloud.com/illixirbass"},{"label":"Welcome Home (ILLIXIR x Acidic Dreams)","url":"https://open.spotify.com/track/2EO3bNmyE6GKPqWOd8AseL"}],"shows":["endpoint-connections-2","aftertronics-2026","justin-hawkes-2026","afterjinx-2025","sub-kulture-2025","afterbreak-2025","rooftop-nonsense-2025"]},{"slug":"acidic-dreams","name":"Acidic Dreams","role":"member","initials":"AD","bio":"Plays solo, in b2b sets, and as Neuromancy with ILLIXIR.","links":[{"label":"SoundCloud","url":"https://soundcloud.com/acidicdreams"},{"label":"Welcome Home (ILLIXIR x Acidic Dreams)","url":"https://open.spotify.com/track/2EO3bNmyE6GKPqWOd8AseL"}],"shows":["afterbreak-2026","aftertronics-2026","justin-hawkes-2026","afterjinx-2025","sub-kulture-2025","kandi-island-2025","rooftop-nonsense-2025"]},{"slug":"double-vision","name":"Double Vision","role":"member","initials":"DV","aliases":["DoubleVision"],"bio":"Runs projection mapping and live VJ for No Nonsense rooms, and opened AfterBreak 2026 Night 1 on the decks.","links":[],"shows":["afterbreak-2026"]},{"slug":"neuromancy","name":"Neuromancy","role":"project","bio":"ILLIXIR and Acidic Dreams’ GRiZ neurofunk tribute.","members":["illixir","acidic-dreams"],"links":[],"shows":["justin-hawkes-2026","afterjinx-2025","sub-kulture-2025"]},{"slug":"neurotoxin","name":"Neurotoxin","role":"project","bio":"Acidic Dreams b2b ILLIXIR. Debuted at Rooftop Nonsense.","members":["acidic-dreams","illixir"],"links":[],"shows":["rooftop-nonsense-2025"]},{"slug":"erosyn","name":"Erosyn (fka SAP)","role":"guest","aliases":["SAP","Erosyn"],"links":[{"label":"standardacidprocedure.com","url":"https://standardacidprocedure.com"}],"shows":["afterjinx-2025"]},{"slug":"dj-tweak","name":"DJ Tweak","role":"guest","aliases":["Tweak"],"shows":["afterbreak-2026","city-rave-round-2-2025"]},{"slug":"g-nick","name":"G-Nick","role":"guest","aliases":["G-NICK"],"shows":["endpoint-connections-1","afterjinx-2025","afterbreak-2025","kandi-island-2025"]},{"slug":"defunk","name":"Defunk","role":"guest","shows":["afterjinx-2025"]},{"slug":"fresh-bvked","name":"Fresh Bvked","role":"guest","shows":["afterjinx-2025"]},{"slug":"mighty-mike-saga","name":"Mighty Mike Saga","role":"guest","shows":["kandi-island-2025"]},{"slug":"terrence-powers","name":"Terrence Powers","role":"guest","shows":["kandi-island-2025"]},{"slug":"justin-hawkes","name":"Justin Hawkes","role":"guest","shows":["justin-hawkes-2026"]},{"slug":"figmvnt","name":"Figmvnt","role":"guest","shows":["aftertronics-2026"]},{"slug":"the-riddim-ranch","name":"The Riddim Ranch","role":"guest","shows":["aftertronics-2026"]},{"slug":"viberium","name":"Viberium","role":"guest","shows":["rooftop-nonsense-2025"]},{"slug":"face-my-flow","name":"Face My Flow","role":"guest","shows":["afterbreak-2026","rooftop-nonsense-2025"]},{"slug":"stehreo","name":"Stehreo","role":"guest","shows":["afterbreak-2026"]},{"slug":"trowl","name":"Trowl","role":"guest","shows":["afterjinx-2025","afterbreak-2025"]},{"slug":"jaml","name":"JamL","role":"guest","shows":["afterjinx-2025"]},{"slug":"dr-funkle","name":"Dr. Funkle","role":"guest","shows":["afterjinx-2025"]},{"slug":"thebusiness","name":"TheBusiness.","role":"guest","shows":["afterjinx-2025"]},{"slug":"dragon-drop","name":"Dragon Drop","role":"guest","shows":["endpoint-connections-2","aftertronics-2026","afterjinx-2025","city-rave-round-2-2025","kandi-island-2025"]},{"slug":"illgmusic","name":"illGmusic","role":"guest","shows":["endpoint-connections-1","aftertronics-2026","afterjinx-2025","sub-kulture-2025","afterbreak-2025"]},{"slug":"orem","name":"Orem","role":"guest","shows":["endpoint-connections-2","endpoint-connections-1","aftertronics-2026","afterbreak-2025"]},{"slug":"quackz","name":"Quackz","role":"guest","shows":["endpoint-connections-2","aftertronics-2026","city-rave-round-2-2025","afterbreak-2025"]},{"slug":"spin-doctaz","name":"Spin Doctaz","role":"guest","shows":["endpoint-connections-1","afterjinx-2025","sub-kulture-2025","afterbreak-2025"]},{"slug":"chehz","name":"Chehz","role":"guest","shows":["endpoint-connections-1","city-rave-round-2-2025"]},{"slug":"chow","name":"Chow","role":"guest","shows":["city-rave-round-2-2025"]},{"slug":"tethra64","name":"Tethra64","role":"guest","shows":["afterbreak-2026","afterjinx-2025"]},{"slug":"bluhtii","name":"Bluhtii","role":"guest","shows":["aftertronics-2026","afterjinx-2025"]},{"slug":"alex-makin","name":"Alex Makin","role":"guest","shows":["afterbreak-2025"]},{"slug":"zektr","name":"Zektr","role":"guest","shows":["endpoint-connections-2"]},{"slug":"tunk","name":"Tunk","role":"guest","shows":["endpoint-connections-1"]},{"slug":"ghostinreallife","name":"GhostInRealLife","role":"guest","shows":["justin-hawkes-2026"]},{"slug":"boxplot","name":"boxplot","role":"guest","shows":["justin-hawkes-2026"]},{"slug":"skuzz","name":"Skuzz","role":"guest","shows":["justin-hawkes-2026"]},{"slug":"moppy","name":"Moppy","role":"guest","shows":["aftertronics-2026"]},{"slug":"opifex","name":"Opifex","role":"guest","shows":["aftertronics-2026"]},{"slug":"space-heaters","name":"Space Heaters","role":"guest","shows":["afterjinx-2025"]},{"slug":"bishop","name":"Bishop.","role":"guest","shows":["afterjinx-2025"]},{"slug":"tygris","name":"Tygris","role":"guest","shows":["afterjinx-2025"]},{"slug":"zacharia","name":"Zacharia","role":"guest","shows":["afterjinx-2025"]},{"slug":"dusteehd","name":"DusteeHD","role":"guest","shows":["afterbreak-2026"]},{"slug":"le-voile","name":"Le Voile","role":"guest","shows":["afterbreak-2026"]},{"slug":"venomixx","name":"Venomixx","role":"guest","shows":["afterbreak-2026"]}],"rentals":[{"name":"DJ booth package","zone":"audio","gear":[{"qty":2,"model":"Pioneer CDJ-3000","tags":["pair"],"note":"Extra decks for an added fee"},{"qty":1,"model":"Pioneer DJM-A9 mixer"},{"qty":1,"model":"Pioneer XDJ-XZ or Denon Prime 4 (standalone, instead of CDJs)"},{"qty":1,"model":"Shure SM-58 mic"}],"circuits":1,"circuitLabel":"booth","video":false,"provides":"","addon":null,"price":""},{"name":"Compact PA package","zone":"audio","gear":[{"qty":2,"model":"EV ZLX-15BT 15\" 1000W powered","tags":["pair"]},{"qty":4,"model":"EV S181 18\" 500W sub","tags":["amp"],"note":"Up to 4, scaled to the room"},{"qty":2,"model":"QSC GX7 2-ch 1000W amp with crossover","note":"One amp drives two subs"},{"qty":2,"model":"Phonic SEM 715 15\" booth monitor","tags":["pair","amp"]}],"circuits":2,"circuitLabel":"PA","video":false,"provides":"","addon":null,"price":""},{"name":"Dance-floor lighting package","zone":"lighting","gear":[{"qty":2,"model":"Epsilon Minibeam 600 moving head","tags":["pair"]},{"qty":3,"model":"ADJ Vertigo Tri LED"},{"qty":1,"model":"Chauvet J-Six"},{"qty":1,"model":"MBT moving disco ball"}],"circuits":1,"circuitLabel":"lighting","video":false,"provides":"","addon":{"name":"Laser add-on (LaserCube 1.2W + tech)","label":"Add laser","gear":"X-Laser LaserCube 1.2W","circuits":0},"price":""},{"name":"Atmosphere + accent package","zone":"lighting","gear":[{"qty":1,"model":"Hurricane Haze 1DX"},{"qty":null,"model":"Music-responsive uplights","note":"Count to the room"}],"circuits":1,"circuitLabel":"haze + uplights","video":false,"provides":"","addon":null,"price":""},{"name":"Projection / display package","zone":"video","gear":[{"qty":1,"model":"Live VJ + projection mapping (Double Vision)","tags":["tech"]},{"qty":1,"model":"Projector or display to fit the room","tags":["sourced"]},{"qty":1,"model":"Scaler, cable, and spares","tags":["sourced"]}],"circuits":1,"circuitLabel":"video","video":true,"provides":"","addon":null,"price":""},{"name":"Camera + IMAG starter package","zone":"video","gear":[{"qty":null,"model":"Camera(s), switcher, and program display","tags":["sourced"],"note":"Count set by the signal path below"},{"qty":1,"model":"Operator","tags":["tech"],"note":"Optional for one locked-off camera"}],"circuits":1,"circuitLabel":"camera","video":true,"provides":"","addon":null,"price":""},{"name":"Event utility package","zone":"utility","gear":[{"qty":1,"model":"Generac 3300W generator","note":"About one 20A circuit of load"},{"qty":null,"model":"12\" aluminum box truss"},{"qty":null,"model":"Distro, extension, and cable management"}],"circuits":0,"circuitLabel":"","video":false,"provides":"3300W generator","addon":null,"price":""},{"name":"Room support package","zone":"utility","gear":[{"qty":1,"model":"NNC inflatable stage"},{"qty":null,"model":"Load-in, run-of-show, and strike crew","tags":["tech"]}],"circuits":0,"circuitLabel":"","video":false,"provides":"","addon":null,"price":""}]}</script><!-- /nn:data -->
 <script>
 (function(){
   'use strict';

diff --git a/events/afterjinx-2026/index.html b/events/afterjinx-2026/index.html
@@ -4,19 +4,19 @@
 <meta charset="utf-8">
 <meta name="viewport" content="width=device-width, initial-scale=1">
 <title>AfterJinx 2026 · Dec 30, 2026 · No Nonsense Collective</title>
-<meta name="description" content="Wed, Dec 30, 2026 · The Arts Loft. HiJinx Night 1 unofficial afters. Doors 11:55 PM, music until 6 AM. Lineup: FREQ.">
+<meta name="description" content="Wed, Dec 30, 2026 · The Arts Loft. HiJinx Night 1 unofficial afters. Doors 11:55 PM, music until 6 AM.">
 <link rel="canonical" href="https://nononsensephilly.com/events/afterjinx-2026/">
 <meta property="og:site_name" content="No Nonsense Collective">
 <meta property="og:locale" content="en_US">
 <meta property="og:type" content="website">
 <meta property="og:url" content="https://nononsensephilly.com/events/afterjinx-2026/">
 <meta property="og:title" content="AfterJinx 2026 · Dec 30, 2026 · No Nonsense Collective">
-<meta property="og:description" content="Wed, Dec 30, 2026 · The Arts Loft. HiJinx Night 1 unofficial afters. Doors 11:55 PM, music until 6 AM. Lineup: FREQ.">
+<meta property="og:description" content="Wed, Dec 30, 2026 · The Arts Loft. HiJinx Night 1 unofficial afters. Doors 11:55 PM, music until 6 AM.">
 <meta property="og:image" content="https://nononsensephilly.com/media/og/afterjinx-2026.jpg">
 <meta property="og:image:alt" content="AfterJinx 2026 flyer">
 <meta name="twitter:card" content="summary_large_image">
 <meta name="twitter:title" content="AfterJinx 2026 · Dec 30, 2026 · No Nonsense Collective">
-<meta name="twitter:description" content="Wed, Dec 30, 2026 · The Arts Loft. HiJinx Night 1 unofficial afters. Doors 11:55 PM, music until 6 AM. Lineup: FREQ.">
+<meta name="twitter:description" content="Wed, Dec 30, 2026 · The Arts Loft. HiJinx Night 1 unofficial afters. Doors 11:55 PM, music until 6 AM.">
 <meta name="twitter:image" content="https://nononsensephilly.com/media/og/afterjinx-2026.jpg">
 <meta name="theme-color" content="#07060c">
 <link rel="icon" href="/favicon.ico" sizes="any">
@@ -86,17 +86,17 @@ dd{margin:0}
 <header class="bar"><a class="brand" href="/">No Nonsense</a><nav aria-label="Primary"><a href="/events/" aria-current="page">Events</a><a href="/rentals/">Rentals</a><a href="/artists/">Artists</a><a href="/#contact">Contact</a></nav></header>
 <main>
 <nav class="crumbs" aria-label="Breadcrumb"><ol><li><a href="/">Home</a></li><li><a href="/events/">Events</a></li><li aria-current="page">AfterJinx 2026</li></ol></nav><div class="grid">
-  <a href="/media/flyers/afterjinx-2026.webp"><img src="/media/flyers/afterjinx-2026-card.webp" alt="AfterJinx 2026 flyer: FREQ" width="720" height="900"></a>
+  <a href="/media/flyers/afterjinx-2026.webp"><img src="/media/flyers/afterjinx-2026-card.webp" alt="AfterJinx 2026 flyer" width="720" height="900"></a>
   <div>
     <p class="kicker">Afterparty · Announced</p>
     <h1>AfterJinx 2026</h1>
     <p class="meta"><time datetime="2026-12-30T23:55:00-05:00">Wed, Dec 30, 2026</time> · The Arts Loft, Philadelphia</p>
     <p class="notice">Announced, not on sale. The drop list gets the venue and lineup, then the on-sale link, then the address at 6 PM on show day. Ask us about stairs, seating or step-free entry before the show.</p>
     <p>HiJinx Night 1 unofficial afters. Doors 11:55 PM, music until 6 AM.</p>
-    <a class="btn" href="/#drop" data-umami-event="drop-list-open" data-umami-event-from="event-page" data-umami-event-event="afterjinx-2026">Get the drop</a><a class="btn ghost" href="/#event/afterjinx-2026">Open on the site</a><a class="btn ghost" href="/events/afterjinx-2026/afterjinx-2026.ics" download>Add to calendar</a>
-    <h2>Lineup</h2><ul class="chips"><li>FREQ</li></ul>
+    <a class="btn" href="/#drop" data-umami-event="drop-list-open" data-umami-event-from="event-page" data-umami-event-event="afterjinx-2026">Get the lineup drop</a><a class="btn ghost" href="/#event/afterjinx-2026">Open on the site</a><a class="btn ghost" href="/events/afterjinx-2026/afterjinx-2026.ics" download>Add to calendar</a>
     
-    <h2>Set times</h2><section><h3>HiJinx Night 1 · Wed Dec 30</h3><ol class="sets"><li><time>3:30</time><span>FREQ</span></li></ol></section>
+    <p>Lineup TBA.</p>
+    
     <h2>At the door</h2><dl><dt>Age</dt><dd>21+</dd></dl>
     
     
